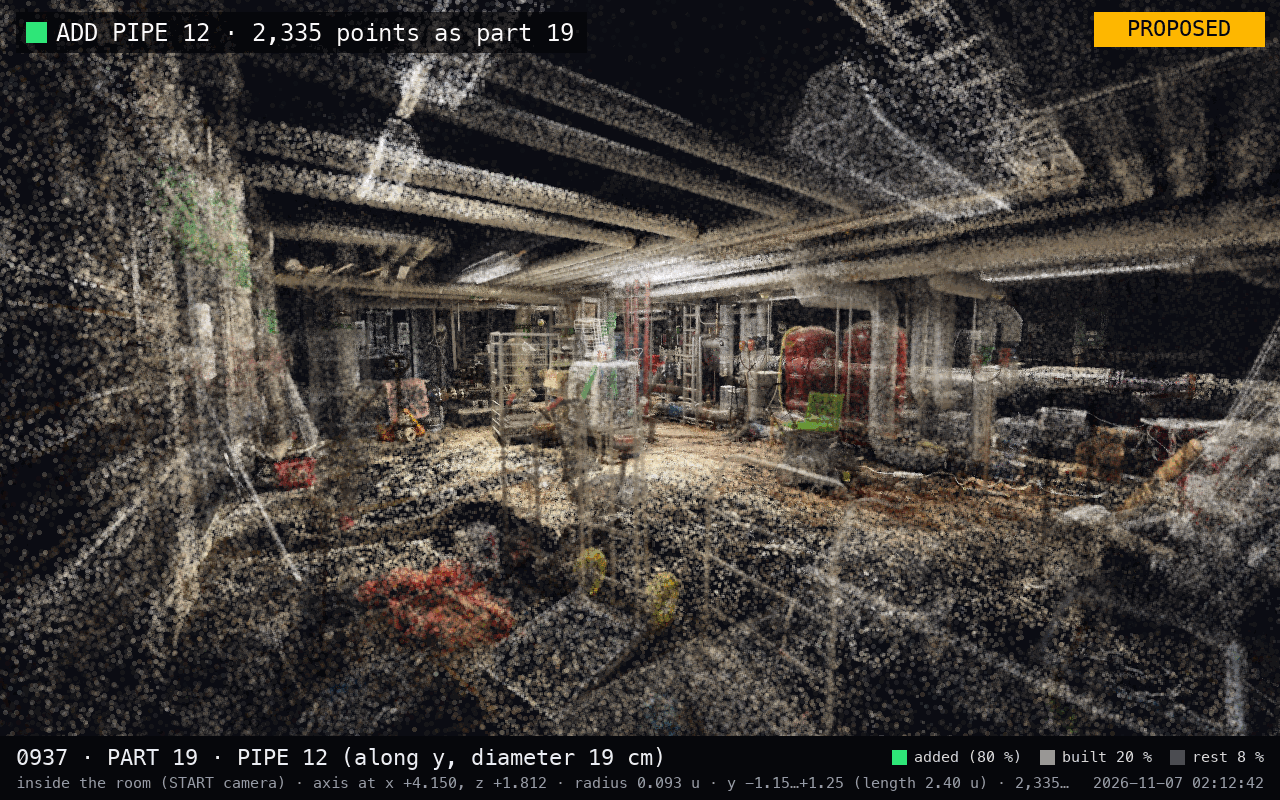
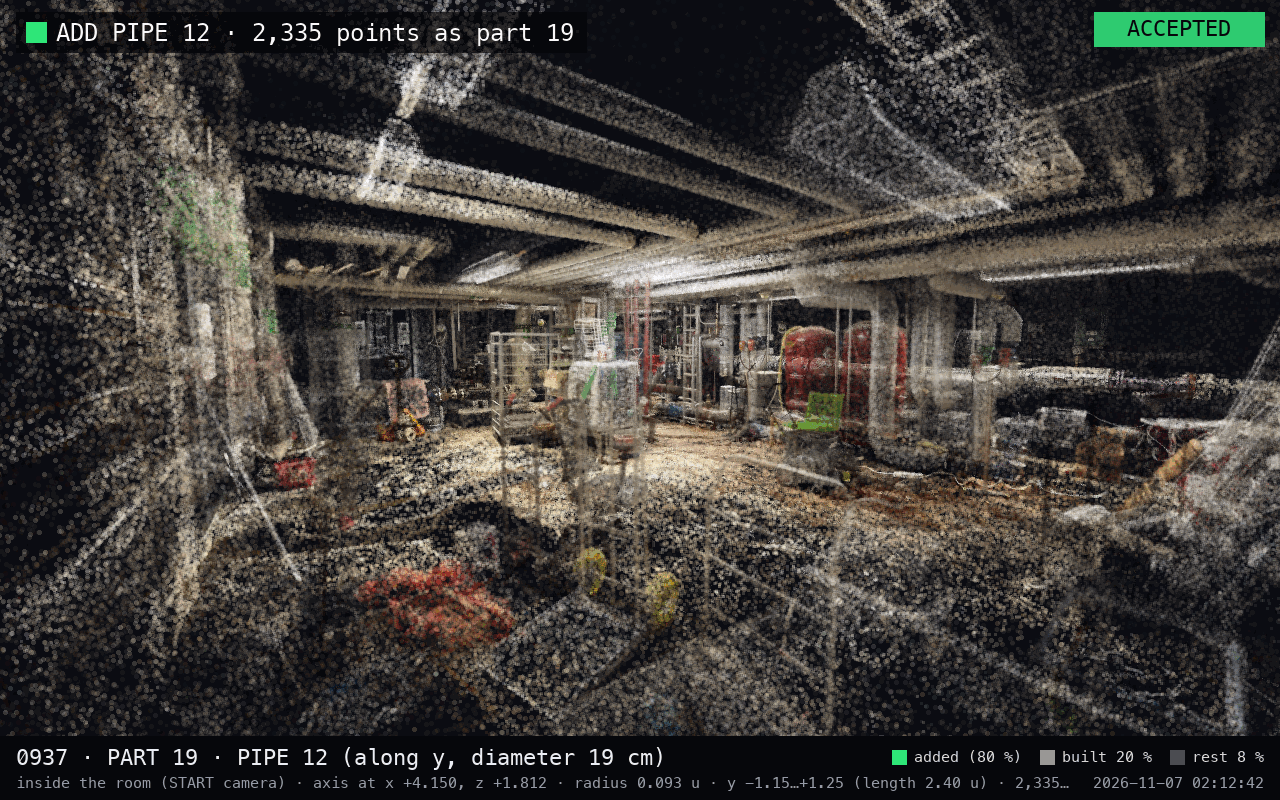
[pipe] Equipment Room PART 19 accepted: pipe 12, the white riser (2,335 splats); no extra long-pipe image
User: accept; normal images are enough - the 'part alone, 4 sides' image added
for long pipes last step is removed again (the standard set is unchanged).

Changed region(s): [[0.8438, 0.0, 1.0, 0.0625]]

diff --git a/pipeline/build.py b/pipeline/build.py
@@ -360,9 +360,6 @@ def _propose(m: S.Manifest, splats: np.ndarray, pool_idx: np.ndarray, sel_mask: 
     if kind == "part":
         frames += _parts_only(splats, m, sel_idx, kind)
     lo, hi = np.percentile(pts_all := xyz_of(splats[sel_idx]), 2, axis=0), np.percentile(pts_all, 98, axis=0)
-    if kind == "part" and name.startswith("pipe_") and float(np.max(hi - lo)) >= 2.0:   # long pipes: shape check
-        everything = np.concatenate([m.claimed_indices(), pool_idx])
-        frames.insert(0, ("the part alone, own colours, 4 sides", _object_four_sides(splats, sel_idx, everything, 0)))
     if kind == "part" and float(np.max(hi - lo)) < 2.0:          # small part: green | colour pair comes first
         frames.insert(0, ("close-up from the room, green | own colours",
                           _object_pair(splats, m, sel_idx, pool_idx[~sel_mask], kind)))
